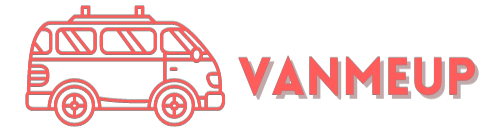
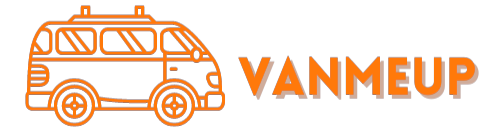
orange color

Changed region(s): [[0.03, 0.0301, 0.45, 0.9624], [0.48, 0.4211, 0.96, 0.7218]]

diff --git a/src/components/App.css b/src/components/App.css
@@ -54,7 +54,7 @@ img {
 /* ESTA ES NUESTRA PALETA DE COLORES, UTILIZAR EN TODA LA WEB Y CAMBIAR AQUI PARA CAMBIAR EL TEMA DE LA WEB */
 :root {
     --vanmeup-1: #FF7F4D;;
-    --vanmeup-2: #FF5C5C;
+    --vanmeup-2: #ff8800;
     --vanmeup-3: #FF9C40;
     --vanmeup-4: #FFCDCD;
     --vanmeup-5: #F2F2F0;

diff --git a/src/components/Navigation/Navigation.css b/src/components/Navigation/Navigation.css
@@ -181,7 +181,7 @@
     padding: 0px;
     margin: 0px;
     margin-right: 7px;
-    filter: saturate(1000%) brightness(110%) hue-rotate(205deg)
+    filter: saturate(1000%) brightness(110%) hue-rotate(223deg)
 }
 
 .becomeOwnerButton {

diff --git a/src/components/UserMessage/UserMessage.css b/src/components/UserMessage/UserMessage.css
@@ -3,7 +3,7 @@
     height: 20px;
     padding: 0px;
     margin: 0px;
-    filter: saturate(1000%) brightness(120%) hue-rotate(205deg)
+    filter: saturate(1000%) brightness(120%) hue-rotate(210deg)
 }
 
 .toast{
